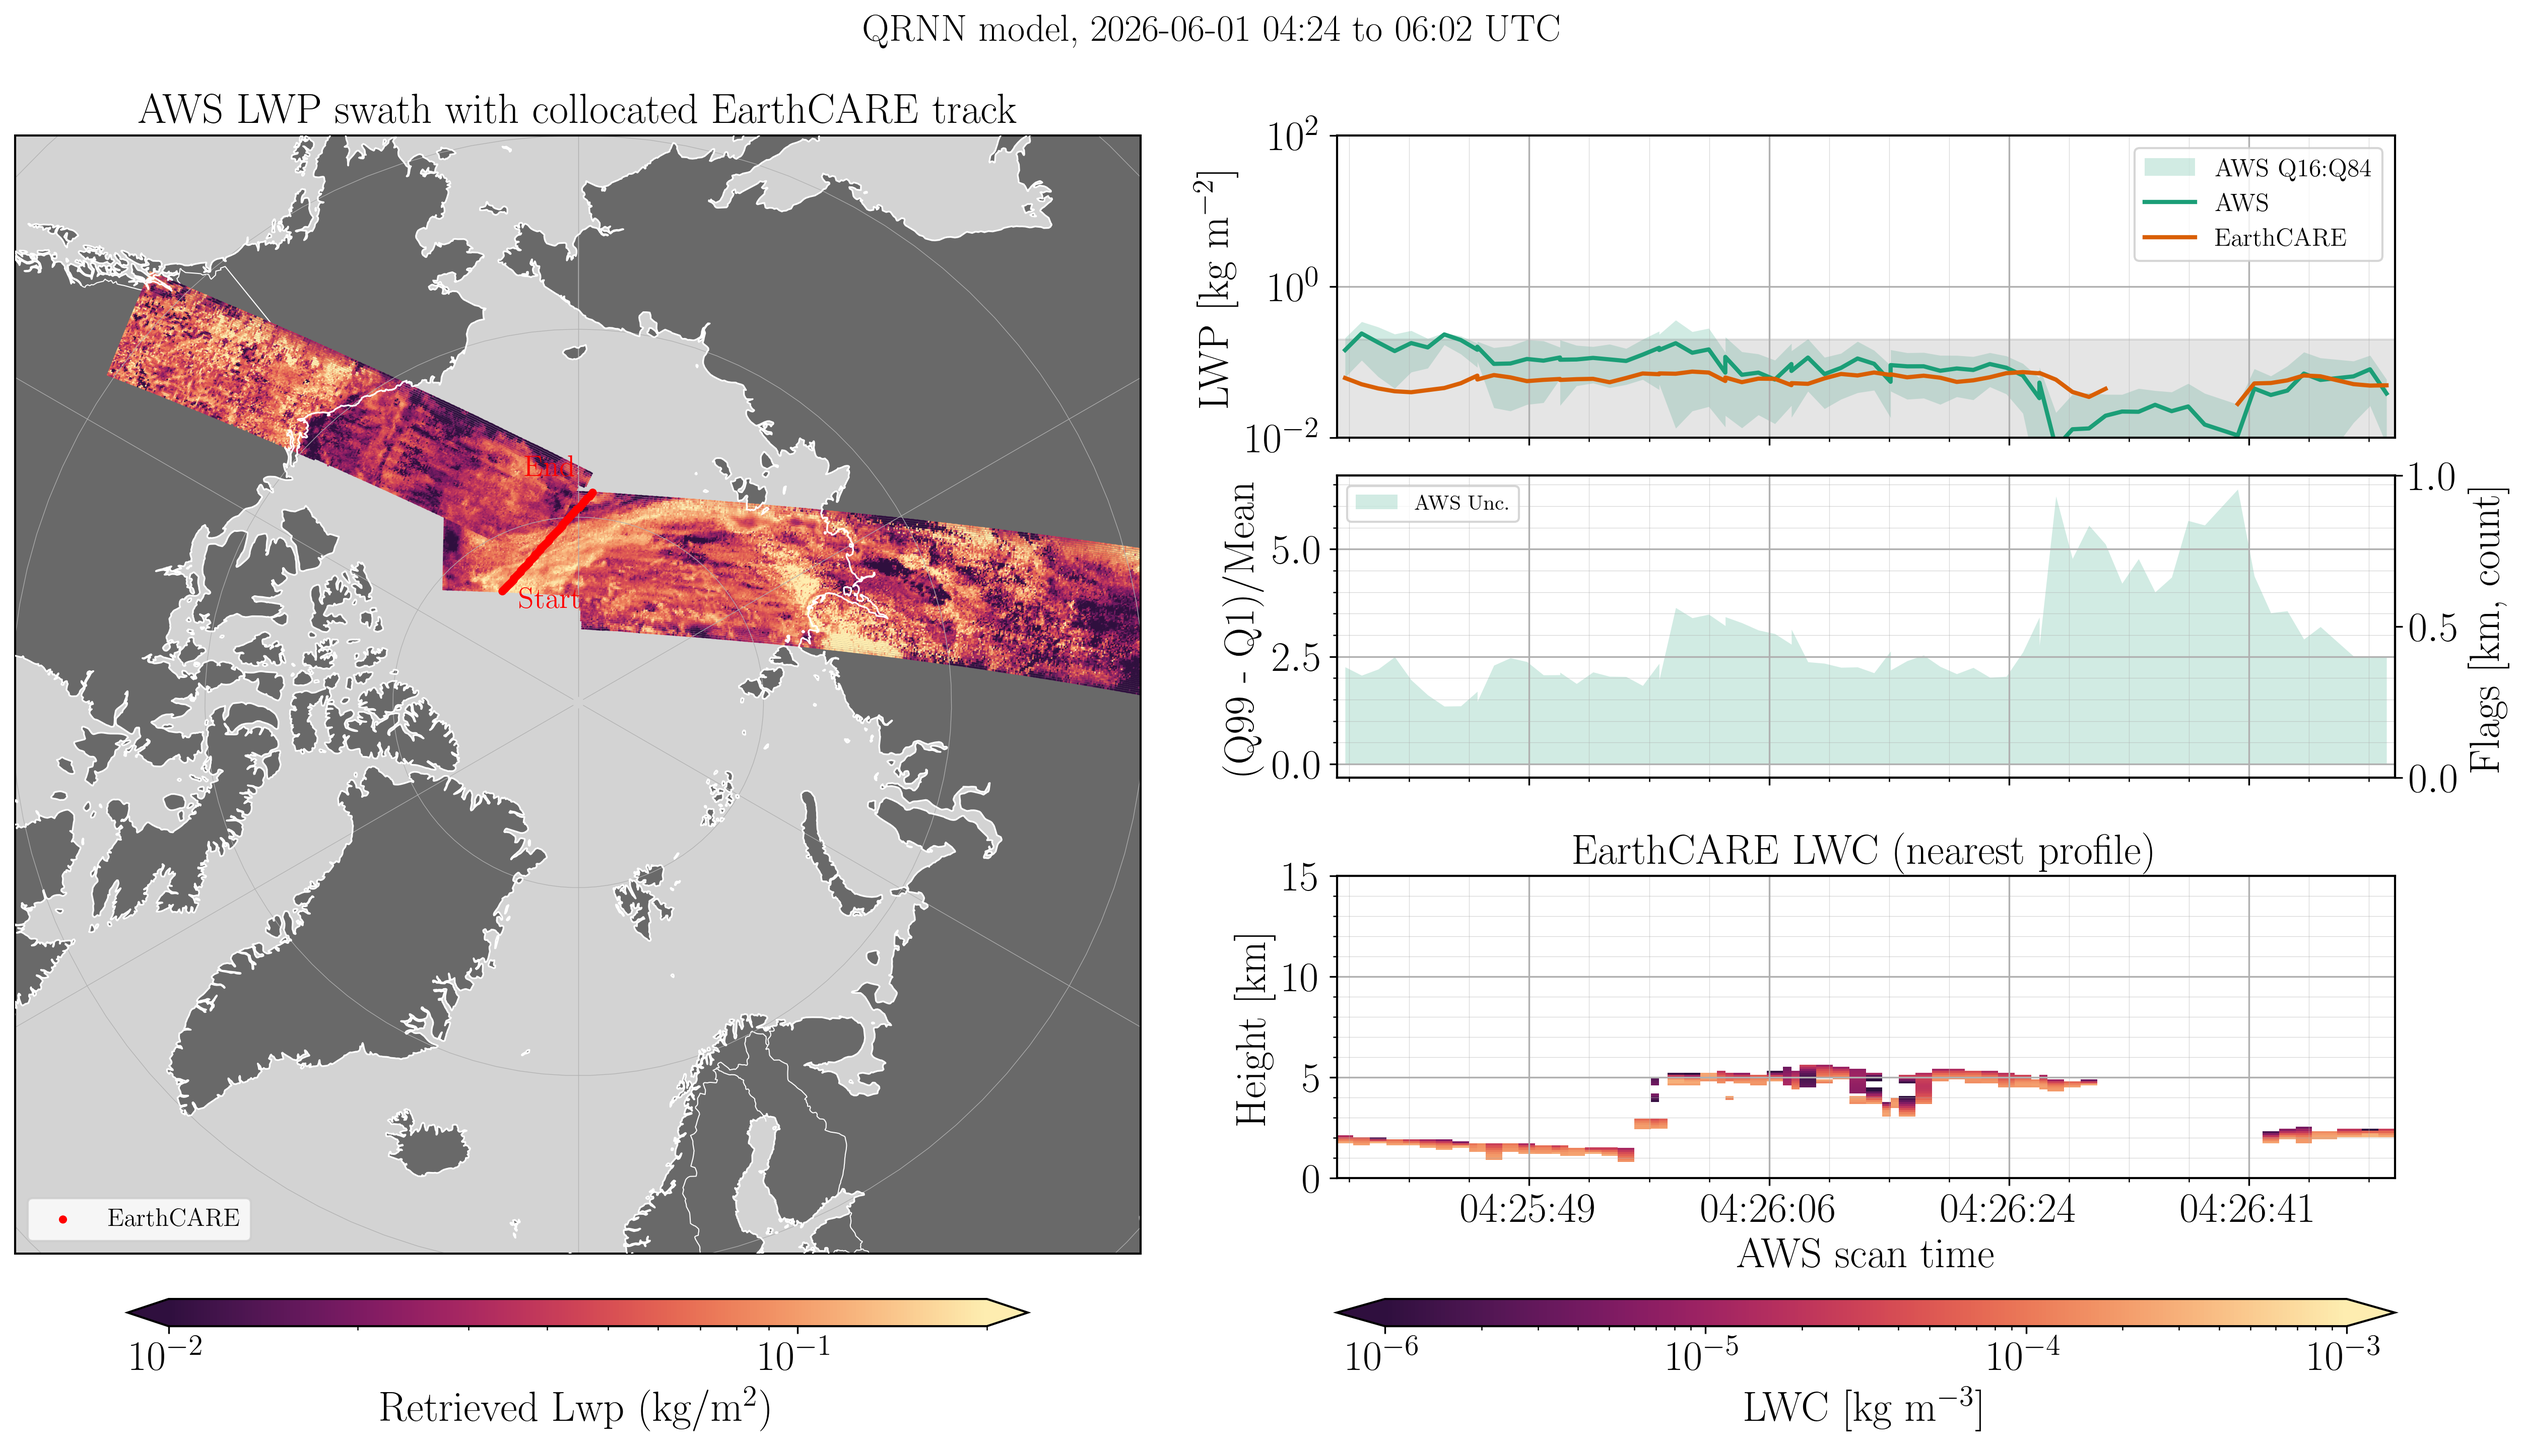
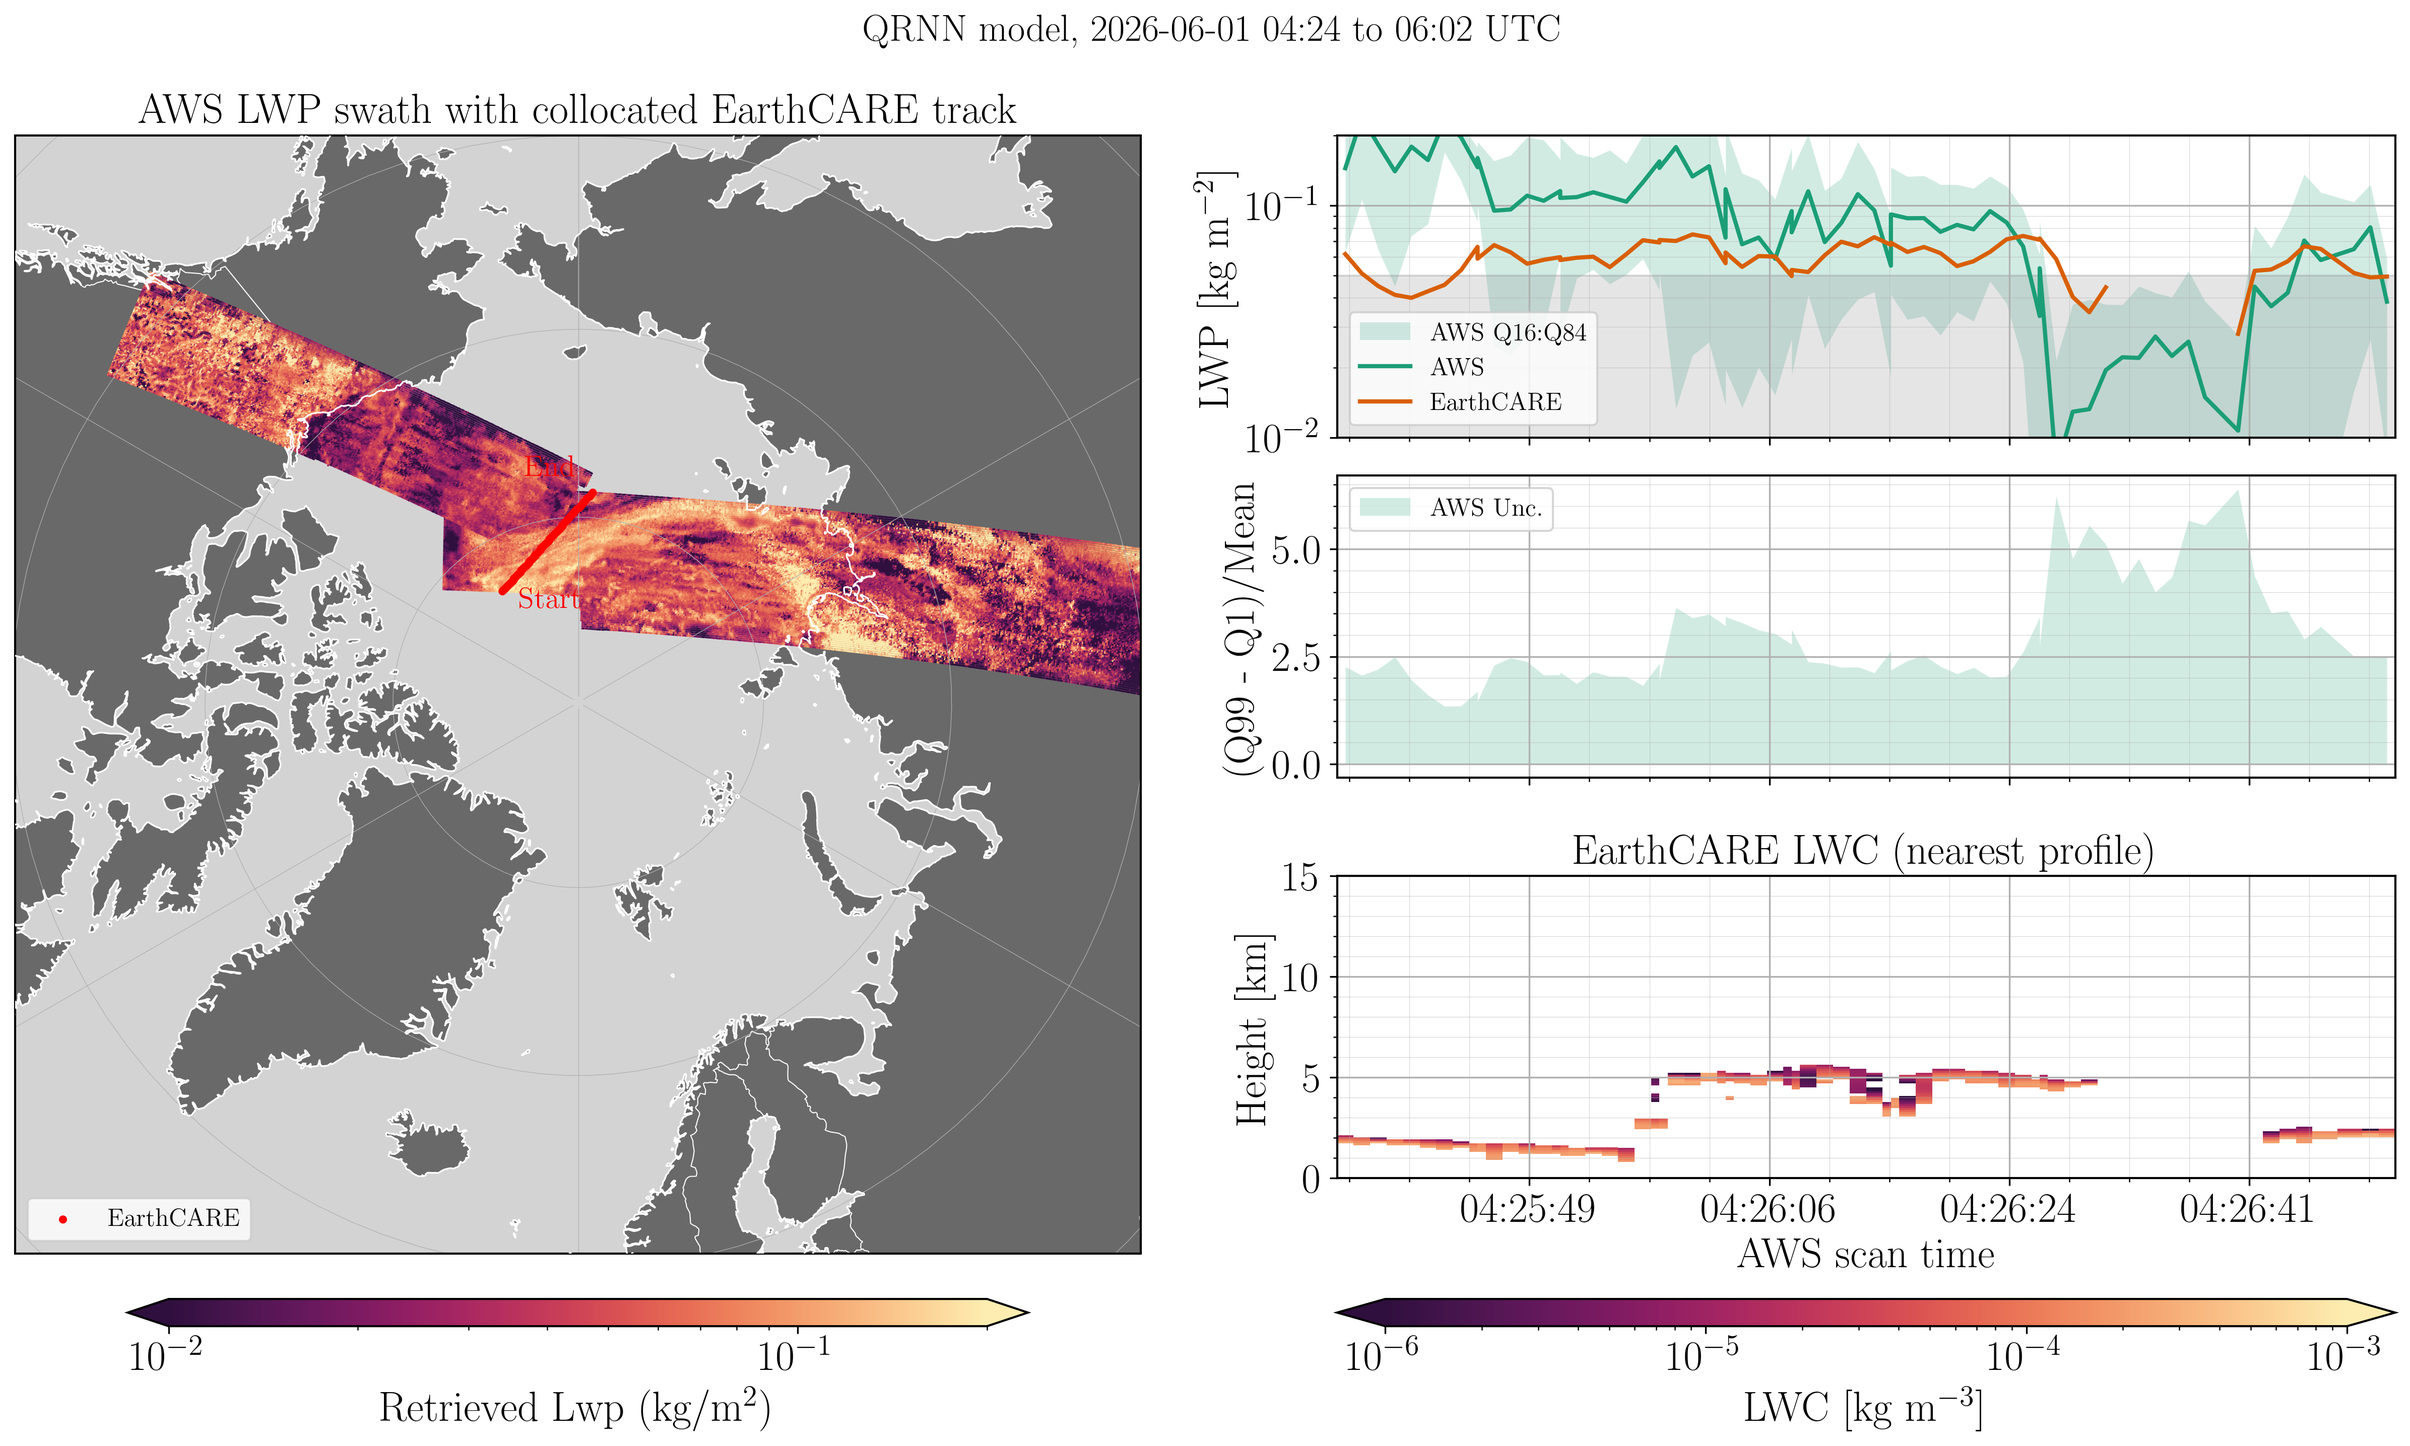
plot

diff --git a/scripts/plotting_scripts/batch_plot_collocations.py b/scripts/plotting_scripts/batch_plot_collocations.py
@@ -293,7 +293,10 @@ def plot_collocation(ds, col, title, out_path, args):
     ax.plot(x, aws, color="C0", label="AWS", lw=2)
     ax.plot(x, ea, color="C1", label="EarthCARE", lw=2)
     ax.set_yscale("log")
-    ax.set_ylim([1e-2, 1e2])
+    if args.variable == "lwp":
+        ax.set_ylim([vmin, vmax])
+    else:
+        ax.set_ylim([1e-2, 1e2])
     ax.axhspan(1e-2, 5e-2, color="grey", alpha=0.2)
     ax.set_ylabel(rf"{v['name']} [kg m$^{{-2}}$]")
     #ax.set_title(f"Collocation: {coloc_date} UTC")
